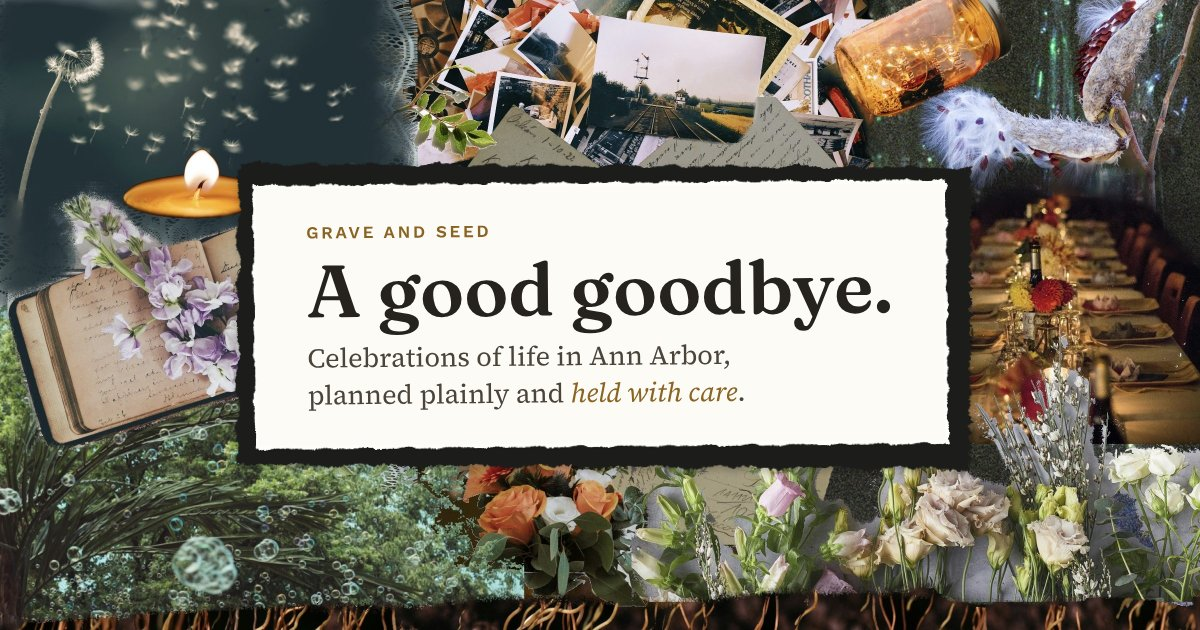
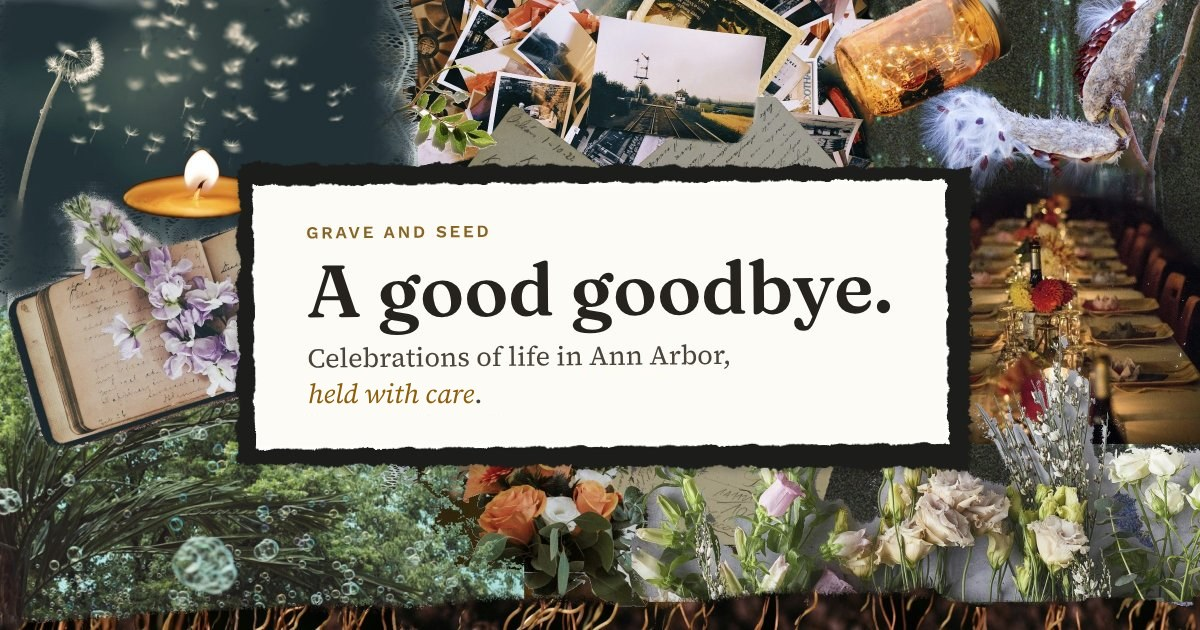
Share image: drop "planned plainly"; new file name so Facebook refetches it
Claude-Session: https://claude.ai/code/session_011MgnuDPPcyysDfMpMHL2sF

Changed region(s): [[0.2467, 0.6032, 0.6167, 0.6635]]

diff --git a/index.html b/index.html
@@ -12,7 +12,7 @@ layout: null
 {% include head.html %}
 
 <script type="application/ld+json">
-{"@context":"https://schema.org","@type":"ProfessionalService","name":"Grave and Seed","description":"Celebration of life planning in Ann Arbor, Michigan.","url":"https://graveandseed.com","email":"{{ c.email }}","telephone":"+1-734-489-9915","image":"https://graveandseed.com/assets/share.jpg","logo":"https://graveandseed.com/assets/icon-180.png","areaServed":[{"@type":"AdministrativeArea","name":"Washtenaw County, Michigan"},{"@type":"City","name":"Ann Arbor, Michigan"},{"@type":"City","name":"Ypsilanti, Michigan"},{"@type":"City","name":"Dexter, Michigan"},{"@type":"City","name":"Saline, Michigan"},{"@type":"City","name":"Chelsea, Michigan"}],"sameAs":["https://www.google.com/maps?cid=17332117641198366502"],"address":{"@type":"PostalAddress","addressLocality":"Ann Arbor","addressRegion":"MI","addressCountry":"US"},"priceRange":"$$"}
+{"@context":"https://schema.org","@type":"ProfessionalService","name":"Grave and Seed","description":"Celebration of life planning in Ann Arbor, Michigan.","url":"https://graveandseed.com","email":"{{ c.email }}","telephone":"+1-734-489-9915","image":"https://graveandseed.com/assets/share-v2.jpg","logo":"https://graveandseed.com/assets/icon-180.png","areaServed":[{"@type":"AdministrativeArea","name":"Washtenaw County, Michigan"},{"@type":"City","name":"Ann Arbor, Michigan"},{"@type":"City","name":"Ypsilanti, Michigan"},{"@type":"City","name":"Dexter, Michigan"},{"@type":"City","name":"Saline, Michigan"},{"@type":"City","name":"Chelsea, Michigan"}],"sameAs":["https://www.google.com/maps?cid=17332117641198366502"],"address":{"@type":"PostalAddress","addressLocality":"Ann Arbor","addressRegion":"MI","addressCountry":"US"},"priceRange":"$$"}
 </script>
 </head>
 <body>

diff --git a/_includes/head.html b/_includes/head.html
@@ -7,7 +7,10 @@
 <meta property="og:description" content="{% if page.description %}{{ page.description }}{% else %}Celebrations of life and memorials in Ann Arbor.{% endif %}">
 <link rel="canonical" href="https://graveandseed.com{{ page.url | replace: 'index.html', '' }}">
 <meta property="og:url" content="https://graveandseed.com{{ page.url | replace: 'index.html', '' }}">
-<meta property="og:image" content="https://graveandseed.com/assets/share.jpg">
+<meta property="og:image" content="https://graveandseed.com/assets/share-v2.jpg">
+<meta property="og:image:width" content="1200">
+<meta property="og:image:height" content="630">
+<meta property="og:image:alt" content="Grave and Seed: a good goodbye. Celebrations of life in Ann Arbor, held with care.">
 <meta name="twitter:card" content="summary_large_image">
 <link rel="preconnect" href="https://fonts.googleapis.com">
 <link rel="preconnect" href="https://fonts.gstatic.com" crossorigin>
